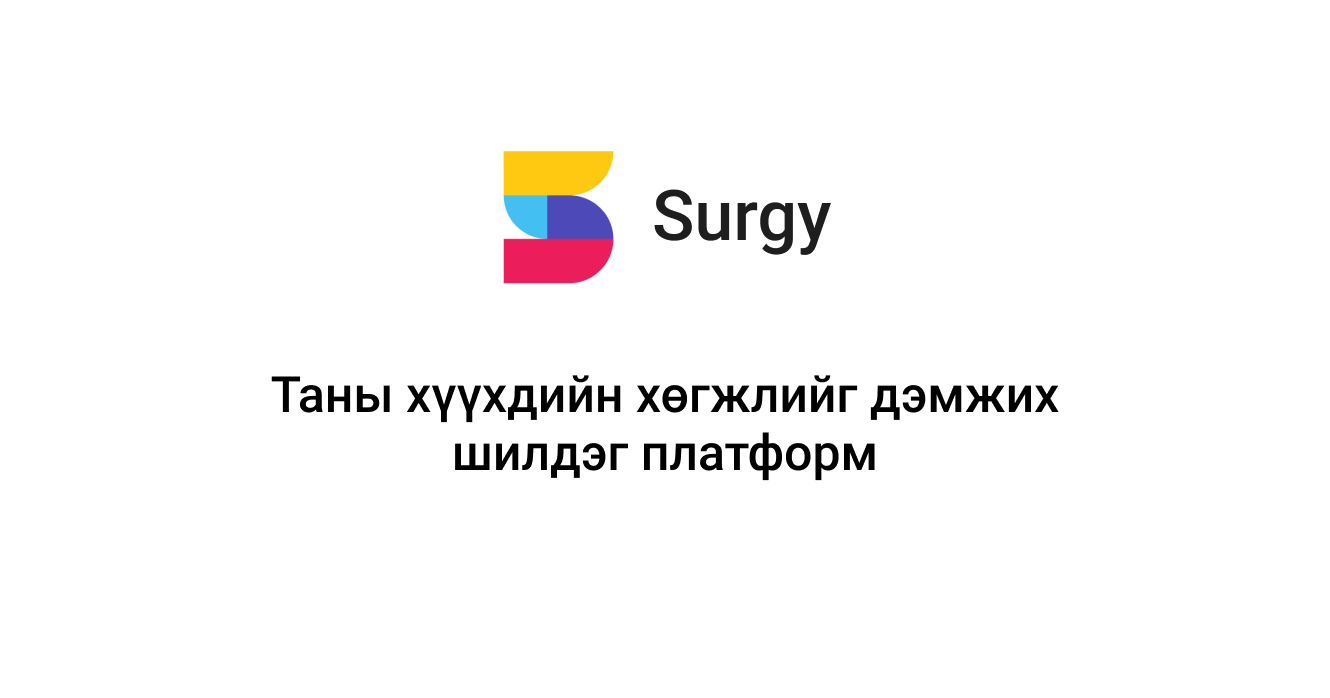
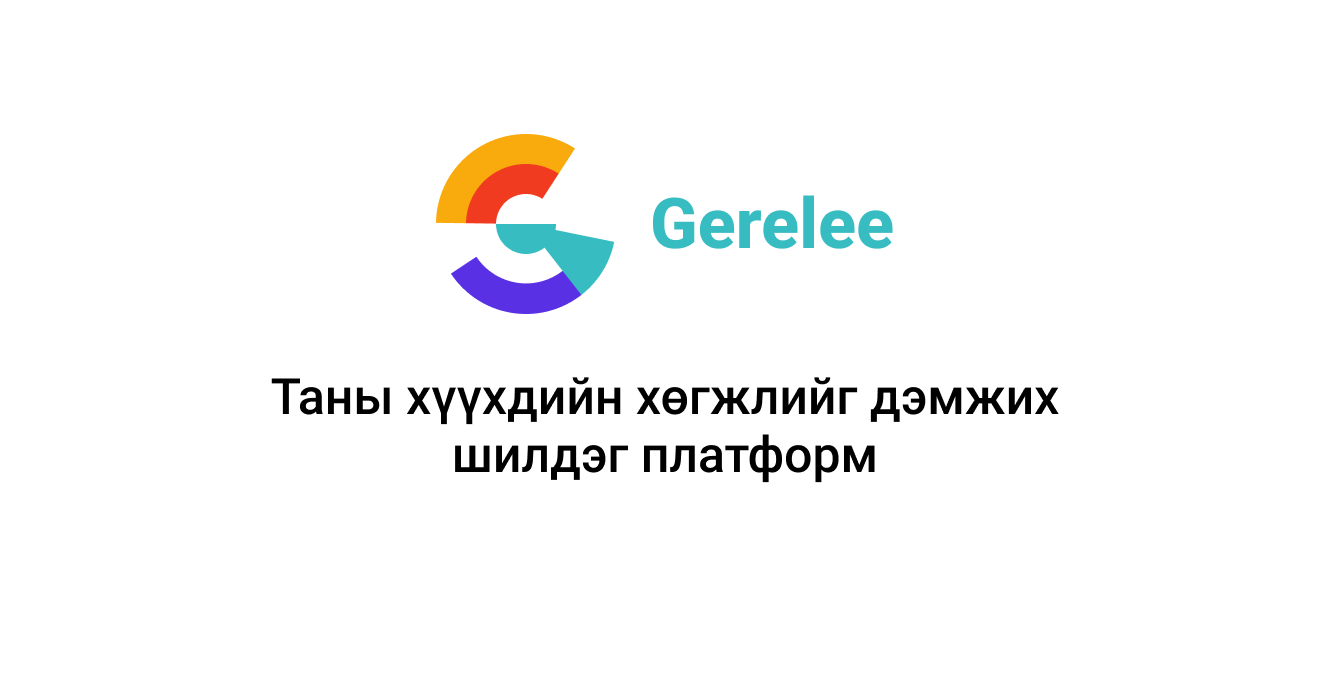
change image and path

diff --git a/components/SeoHead.js b/components/SeoHead.js
@@ -9,12 +9,12 @@ const defaultMeta = {
   description:
     'Landing page VPN Hackaton Best VPN For Privacy, Country and Cheapest',
   // change base url of your web (without '/' at the end)
-  url: 'https://surgy.vercel.app',
+  url: 'https://gerelee.vercel.app',
   type: 'website',
   robots: 'follow, index',
   // change with url of your image (recommended dimension = 1.91:1)
   // used in twitter, facebook, etc. card when link copied in tweet/status 
-  image: 'https://surgy.vercel.app/assets/card-image.png',
+  image: 'https://gerelee.vercel.app/assets/card-image.png',
   author: 'Lorem Ipsum'
 };
 
